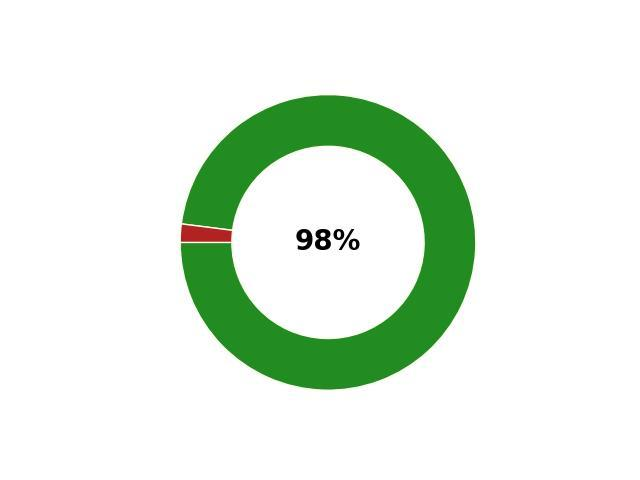
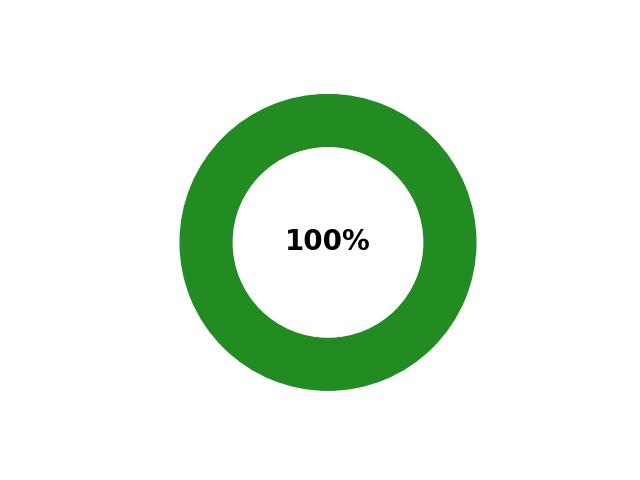
Fix dashboard

diff --git a/README.md b/README.md
@@ -3,7 +3,7 @@
 <table><tbody><tr>
 <td align='center'><img src='dependabot/resources/repo_status_graph.jpeg'/></td>
 <td align='center'>
-<code>ballerina-distribution</code> repository has not been updated from the latest stable version.<br><br>
+<code>ballerina-distribution</code> repository is up to date.<br><br>
 <code>ballerina-lang</code> repository version <b>2201.0.1-rc3.1</b> has been updated as follows
 </td>
 </tr></tbody></table> 
@@ -53,19 +53,20 @@
 |   9   |         [ballerina-distribution](https://github.com/ballerina-platform/ballerina-distribution)          |                                      [![Build](https://github.com/ballerina-platform/ballerina-distribution/actions/workflows/main.yml/badge.svg)](https://github.com/ballerina-platform/ballerina-distribution/actions/workflows/main.yml)                                      | [![Lag](https://img.shields.io/badge/lag-no%20lag-brightgreen?label=)](https://github.com/ballerina-platform/ballerina-distribution/blob/master/gradle.properties) | []() | 
 
 ## Ballerina Extended Library
-| Level |                                                 Modules                                                 |                                                                                                                                      Build                                                                                                                                       | Lag Status | Pending Automated PR |
-|:-----:|:-------------------------------------------------------------------------------------------------------:|:--------------------------------------------------------------------------------------------------------------------------------------------------------------------------------------------------------------------------------------------------------------------------------:|:---:|:---:|
-|  10   | [aws.lambda](https://github.com/ballerina-platform/module-ballerinax-aws.lambda) | [![Build](https://github.com/ballerina-platform/module-ballerinax-aws.lambda/actions/workflows/build-master.yml/badge.svg)](https://github.com/ballerina-platform/module-ballerinax-aws.lambda/actions/workflows/build-master.yml) | [![Lag](https://img.shields.io/badge/lag-no%20lag-brightgreen?label=)](https://github.com/ballerina-platform/module-ballerinax-aws.lambda/blob/master/gradle.properties) | []() |
-|       | [azure.functions](https://github.com/ballerina-platform/module-ballerinax-azure.functions) | [![Build](https://github.com/ballerina-platform/module-ballerinax-azure.functions/actions/workflows/build-master.yml/badge.svg)](https://github.com/ballerina-platform/module-ballerinax-azure.functions/actions/workflows/build-master.yml) | [![Lag](https://img.shields.io/badge/lag-no%20lag-brightgreen?label=)](https://github.com/ballerina-platform/module-ballerinax-azure.functions/blob/master/gradle.properties) | []() |
-|       | [choreo](https://github.com/ballerina-platform/module-ballerinax-choreo) | [![Build](https://github.com/ballerina-platform/module-ballerinax-choreo/actions/workflows/build-main.yml/badge.svg)](https://github.com/ballerina-platform/module-ballerinax-choreo/actions/workflows/build-main.yml) | [![Lag](https://img.shields.io/badge/lag-Previous%20Development%20Version-red?label=)](https://github.com/ballerina-platform/module-ballerinax-choreo/blob/main/gradle.properties) | [#156](https://github.com/ballerina-platform/module-ballerinax-choreo/pull/156) |
-|       | [jaeger](https://github.com/ballerina-platform/module-ballerinax-jaeger) | [![Build](https://github.com/ballerina-platform/module-ballerinax-jaeger/actions/workflows/build-main.yml/badge.svg)](https://github.com/ballerina-platform/module-ballerinax-jaeger/actions/workflows/build-main.yml) | [![Lag](https://img.shields.io/badge/lag-no%20lag-brightgreen?label=)](https://github.com/ballerina-platform/module-ballerinax-jaeger/blob/main/gradle.properties) | []() |
-|       | [java.jdbc](https://github.com/ballerina-platform/module-ballerinax-java.jdbc) | [![Build](https://github.com/ballerina-platform/module-ballerinax-java.jdbc/actions/workflows/build-timestamped-master.yml/badge.svg)](https://github.com/ballerina-platform/module-ballerinax-java.jdbc/actions/workflows/build-timestamped-master.yml) | [![Lag](https://img.shields.io/badge/lag-no%20lag-brightgreen?label=)](https://github.com/ballerina-platform/module-ballerinax-java.jdbc/blob/master/gradle.properties) | []() |
-|       | [kafka](https://github.com/ballerina-platform/module-ballerinax-kafka) | [![Build](https://github.com/ballerina-platform/module-ballerinax-kafka/actions/workflows/build-timestamped-master.yml/badge.svg)](https://github.com/ballerina-platform/module-ballerinax-kafka/actions/workflows/build-timestamped-master.yml) | [![Lag](https://img.shields.io/badge/lag-no%20lag-brightgreen?label=)](https://github.com/ballerina-platform/module-ballerinax-kafka/blob/master/gradle.properties) | []() |
-|       | [mssql](https://github.com/ballerina-platform/module-ballerinax-mssql) | [![Build](https://github.com/ballerina-platform/module-ballerinax-mssql/actions/workflows/build-timestamped-master.yml/badge.svg)](https://github.com/ballerina-platform/module-ballerinax-mssql/actions/workflows/build-timestamped-master.yml) | [![Lag](https://img.shields.io/badge/lag-no%20lag-brightgreen?label=)](https://github.com/ballerina-platform/module-ballerinax-mssql/blob/main/gradle.properties) | []() |
-|       | [mysql](https://github.com/ballerina-platform/module-ballerinax-mysql) | [![Build](https://github.com/ballerina-platform/module-ballerinax-mysql/actions/workflows/build-timestamped-master.yml/badge.svg)](https://github.com/ballerina-platform/module-ballerinax-mysql/actions/workflows/build-timestamped-master.yml) | [![Lag](https://img.shields.io/badge/lag-no%20lag-brightgreen?label=)](https://github.com/ballerina-platform/module-ballerinax-mysql/blob/master/gradle.properties) | []() |
-|       | [nats](https://github.com/ballerina-platform/module-ballerinax-nats) | [![Build](https://github.com/ballerina-platform/module-ballerinax-nats/actions/workflows/build-timestamped-master.yml/badge.svg)](https://github.com/ballerina-platform/module-ballerinax-nats/actions/workflows/build-timestamped-master.yml) | [![Lag](https://img.shields.io/badge/lag-no%20lag-brightgreen?label=)](https://github.com/ballerina-platform/module-ballerinax-nats/blob/master/gradle.properties) | []() |
-|       | [oracledb](https://github.com/ballerina-platform/module-ballerinax-oracledb) | [![Build](https://github.com/ballerina-platform/module-ballerinax-oracledb/actions/workflows/build-timestamped-master.yml/badge.svg)](https://github.com/ballerina-platform/module-ballerinax-oracledb/actions/workflows/build-timestamped-master.yml) | [![Lag](https://img.shields.io/badge/lag-no%20lag-brightgreen?label=)](https://github.com/ballerina-platform/module-ballerinax-oracledb/blob/main/gradle.properties) | []() |
-|       | [postgresql](https://github.com/ballerina-platform/module-ballerinax-postgresql) | [![Build](https://github.com/ballerina-platform/module-ballerinax-postgresql/actions/workflows/build-timestamped-master.yml/badge.svg)](https://github.com/ballerina-platform/module-ballerinax-postgresql/actions/workflows/build-timestamped-master.yml) | [![Lag](https://img.shields.io/badge/lag-no%20lag-brightgreen?label=)](https://github.com/ballerina-platform/module-ballerinax-postgresql/blob/main/gradle.properties) | []() |
-|       | [prometheus](https://github.com/ballerina-platform/module-ballerinax-prometheus) | [![Build](https://github.com/ballerina-platform/module-ballerinax-prometheus/actions/workflows/build-main.yml/badge.svg)](https://github.com/ballerina-platform/module-ballerinax-prometheus/actions/workflows/build-main.yml) | [![Lag](https://img.shields.io/badge/lag-no%20lag-brightgreen?label=)](https://github.com/ballerina-platform/module-ballerinax-prometheus/blob/main/gradle.properties) | []() |
-|       | [rabbitmq](https://github.com/ballerina-platform/module-ballerinax-rabbitmq) | [![Build](https://github.com/ballerina-platform/module-ballerinax-rabbitmq/actions/workflows/build-timestamped-master.yml/badge.svg)](https://github.com/ballerina-platform/module-ballerinax-rabbitmq/actions/workflows/build-timestamped-master.yml) | [![Lag](https://img.shields.io/badge/lag-no%20lag-brightgreen?label=)](https://github.com/ballerina-platform/module-ballerinax-rabbitmq/blob/master/gradle.properties) | []() |
-|       | [stan](https://github.com/ballerina-platform/module-ballerinax-stan) | [![Build](https://github.com/ballerina-platform/module-ballerinax-stan/actions/workflows/build-timestamped-master.yml/badge.svg)](https://github.com/ballerina-platform/module-ballerinax-stan/actions/workflows/build-timestamped-master.yml) | [![Lag](https://img.shields.io/badge/lag-no%20lag-brightgreen?label=)](https://github.com/ballerina-platform/module-ballerinax-stan/blob/main/gradle.properties) | []() |
+| Level |                                          Modules                                           |                                                                                                                           Build                                                                                                                            |                                                                                  Lag Status                                                                                   | Pending Automated PR |
+|:-----:|:------------------------------------------------------------------------------------------:|:----------------------------------------------------------------------------------------------------------------------------------------------------------------------------------------------------------------------------------------------------------:|:-----------------------------------------------------------------------------------------------------------------------------------------------------------------------------:|:--------------------:|
+|  10   |      [aws.lambda](https://github.com/ballerina-platform/module-ballerinax-aws.lambda)      |             [![Build](https://github.com/ballerina-platform/module-ballerinax-aws.lambda/actions/workflows/build-master.yml/badge.svg)](https://github.com/ballerina-platform/module-ballerinax-aws.lambda/actions/workflows/build-master.yml)             |   [![Lag](https://img.shields.io/badge/lag-no%20lag-brightgreen?label=)](https://github.com/ballerina-platform/module-ballerinax-aws.lambda/blob/master/gradle.properties)    |                      | 
+|       | [azure.functions](https://github.com/ballerina-platform/module-ballerinax-azure.functions) |        [![Build](https://github.com/ballerina-platform/module-ballerinax-azure.functions/actions/workflows/build-master.yml/badge.svg)](https://github.com/ballerina-platform/module-ballerinax-azure.functions/actions/workflows/build-master.yml)        | [![Lag](https://img.shields.io/badge/lag-no%20lag-brightgreen?label=)](https://github.com/ballerina-platform/module-ballerinax-azure.functions/blob/master/gradle.properties) |                      | 
+|       |          [choreo](https://github.com/ballerina-platform/module-ballerinax-choreo)          |                   [![Build](https://github.com/ballerina-platform/module-ballerinax-choreo/actions/workflows/build-main.yml/badge.svg)](https://github.com/ballerina-platform/module-ballerinax-choreo/actions/workflows/build-main.yml)                   |      [![Lag](https://img.shields.io/badge/lag-no%20lag-brightgreen?label=)](https://github.com/ballerina-platform/module-ballerinax-choreo/blob/main/gradle.properties)       |                      | 
+|       |          [docker](https://github.com/ballerina-platform/module-ballerina-docker)           |      [![Build](https://github.com/ballerina-platform/module-ballerina-docker/actions/workflows/build-timestamped-master.yml/badge.svg)](https://github.com/ballerina-platform/module-ballerina-docker/actions/workflows/build-timestamped-master.yml)      |      [![Lag](https://img.shields.io/badge/lag-no%20lag-brightgreen?label=)](https://github.com/ballerina-platform/module-ballerina-docker/blob/master/gradle.properties)      |                      | 
+|       |          [jaeger](https://github.com/ballerina-platform/module-ballerinax-jaeger)          |                   [![Build](https://github.com/ballerina-platform/module-ballerinax-jaeger/actions/workflows/build-main.yml/badge.svg)](https://github.com/ballerina-platform/module-ballerinax-jaeger/actions/workflows/build-main.yml)                   |      [![Lag](https://img.shields.io/badge/lag-no%20lag-brightgreen?label=)](https://github.com/ballerina-platform/module-ballerinax-jaeger/blob/main/gradle.properties)       |                      | 
+|       |       [java.jdbc](https://github.com/ballerina-platform/module-ballerinax-java.jdbc)       |  [![Build](https://github.com/ballerina-platform/module-ballerinax-java.jdbc/actions/workflows/build-timestamped-master.yml/badge.svg)](https://github.com/ballerina-platform/module-ballerinax-java.jdbc/actions/workflows/build-timestamped-master.yml)  |    [![Lag](https://img.shields.io/badge/lag-no%20lag-brightgreen?label=)](https://github.com/ballerina-platform/module-ballerinax-java.jdbc/blob/master/gradle.properties)    |                      | 
+|       |           [kafka](https://github.com/ballerina-platform/module-ballerinax-kafka)           |      [![Build](https://github.com/ballerina-platform/module-ballerinax-kafka/actions/workflows/build-timestamped-master.yml/badge.svg)](https://github.com/ballerina-platform/module-ballerinax-kafka/actions/workflows/build-timestamped-master.yml)      |      [![Lag](https://img.shields.io/badge/lag-no%20lag-brightgreen?label=)](https://github.com/ballerina-platform/module-ballerinax-kafka/blob/master/gradle.properties)      |                      | 
+|       |           [mssql](https://github.com/ballerina-platform/module-ballerinax-mssql)           |      [![Build](https://github.com/ballerina-platform/module-ballerinax-mssql/actions/workflows/build-timestamped-master.yml/badge.svg)](https://github.com/ballerina-platform/module-ballerinax-mssql/actions/workflows/build-timestamped-master.yml)      |       [![Lag](https://img.shields.io/badge/lag-no%20lag-brightgreen?label=)](https://github.com/ballerina-platform/module-ballerinax-mssql/blob/main/gradle.properties)       |                      | 
+|       |           [mysql](https://github.com/ballerina-platform/module-ballerinax-mysql)           |      [![Build](https://github.com/ballerina-platform/module-ballerinax-mysql/actions/workflows/build-timestamped-master.yml/badge.svg)](https://github.com/ballerina-platform/module-ballerinax-mysql/actions/workflows/build-timestamped-master.yml)      |      [![Lag](https://img.shields.io/badge/lag-no%20lag-brightgreen?label=)](https://github.com/ballerina-platform/module-ballerinax-mysql/blob/master/gradle.properties)      |                      | 
+|       |            [nats](https://github.com/ballerina-platform/module-ballerinax-nats)            |       [![Build](https://github.com/ballerina-platform/module-ballerinax-nats/actions/workflows/build-timestamped-master.yml/badge.svg)](https://github.com/ballerina-platform/module-ballerinax-nats/actions/workflows/build-timestamped-master.yml)       |      [![Lag](https://img.shields.io/badge/lag-no%20lag-brightgreen?label=)](https://github.com/ballerina-platform/module-ballerinax-nats/blob/master/gradle.properties)       |                      | 
+|       |        [oracledb](https://github.com/ballerina-platform/module-ballerinax-oracledb)        |   [![Build](https://github.com/ballerina-platform/module-ballerinax-oracledb/actions/workflows/build-timestamped-master.yml/badge.svg)](https://github.com/ballerina-platform/module-ballerinax-oracledb/actions/workflows/build-timestamped-master.yml)   |     [![Lag](https://img.shields.io/badge/lag-no%20lag-brightgreen?label=)](https://github.com/ballerina-platform/module-ballerinax-oracledb/blob/main/gradle.properties)      |                      | 
+|       |      [postgresql](https://github.com/ballerina-platform/module-ballerinax-postgresql)      | [![Build](https://github.com/ballerina-platform/module-ballerinax-postgresql/actions/workflows/build-timestamped-master.yml/badge.svg)](https://github.com/ballerina-platform/module-ballerinax-postgresql/actions/workflows/build-timestamped-master.yml) |    [![Lag](https://img.shields.io/badge/lag-no%20lag-brightgreen?label=)](https://github.com/ballerina-platform/module-ballerinax-postgresql/blob/main/gradle.properties)     |                      | 
+|       |      [prometheus](https://github.com/ballerina-platform/module-ballerinax-prometheus)      |               [![Build](https://github.com/ballerina-platform/module-ballerinax-prometheus/actions/workflows/build-main.yml/badge.svg)](https://github.com/ballerina-platform/module-ballerinax-prometheus/actions/workflows/build-main.yml)               |    [![Lag](https://img.shields.io/badge/lag-no%20lag-brightgreen?label=)](https://github.com/ballerina-platform/module-ballerinax-prometheus/blob/main/gradle.properties)     |                      | 
+|       |        [rabbitmq](https://github.com/ballerina-platform/module-ballerinax-rabbitmq)        |   [![Build](https://github.com/ballerina-platform/module-ballerinax-rabbitmq/actions/workflows/build-timestamped-master.yml/badge.svg)](https://github.com/ballerina-platform/module-ballerinax-rabbitmq/actions/workflows/build-timestamped-master.yml)   |    [![Lag](https://img.shields.io/badge/lag-no%20lag-brightgreen?label=)](https://github.com/ballerina-platform/module-ballerinax-rabbitmq/blob/master/gradle.properties)     |                      | 
+|       |            [stan](https://github.com/ballerina-platform/module-ballerinax-stan)            |       [![Build](https://github.com/ballerina-platform/module-ballerinax-stan/actions/workflows/build-timestamped-master.yml/badge.svg)](https://github.com/ballerina-platform/module-ballerinax-stan/actions/workflows/build-timestamped-master.yml)       |       [![Lag](https://img.shields.io/badge/lag-no%20lag-brightgreen?label=)](https://github.com/ballerina-platform/module-ballerinax-stan/blob/main/gradle.properties)        |                      | 
